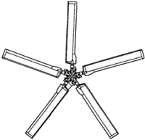
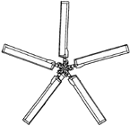
mig26 fix

diff --git a/shilka2/Aircraft.cs b/shilka2/Aircraft.cs
@@ -1807,13 +1807,13 @@ namespace shilka2
                                         elementName = "mi26_prop",
                                         y = -3,
                                         x_left = -35,
-                                        x_right = 95,
+                                        x_right = 105,
                                         movingType = DynamicElement.MovingType.xRotate,
                                     },
                                     new DynamicElement {
                                         elementName = "mi26_suppl",
-                                        y = -62,
-                                        x_left = 468,
+                                        y = -54,
+                                        x_left = 480,
                                         x_right = -35,
                                         movingType = DynamicElement.MovingType.zRotate
                                     }
